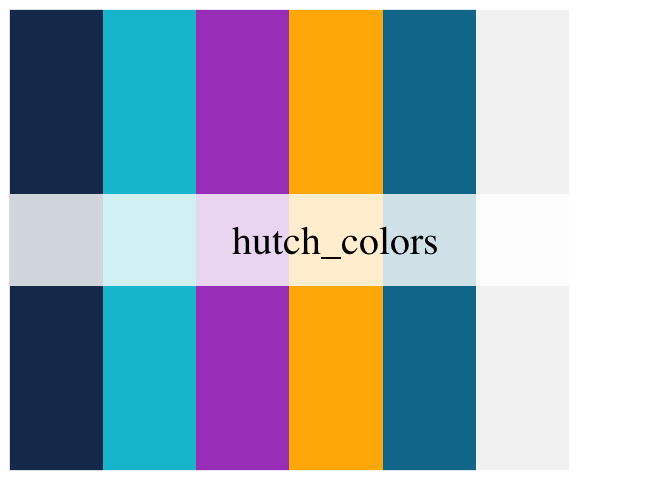
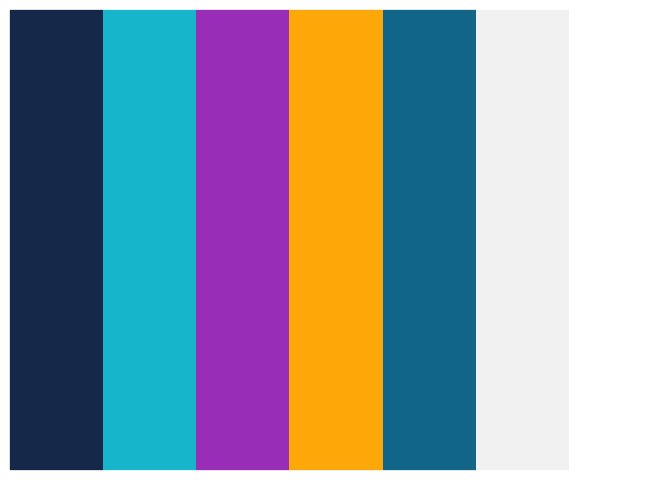
Show Fred Hutch colors

Changed region(s): [[0.0, 0.4062, 0.7188, 0.5938]]

diff --git a/README.md b/README.md
@@ -42,7 +42,7 @@ library(scales)
 Show Fred Hutch colors
 
 ``` r
-plot(hutch_palette)
+plot(hutch_palette$hutch_colors)
 ```
 
 <img src="man/figures/README-unnamed-chunk-2-1.png" width="100%" />
